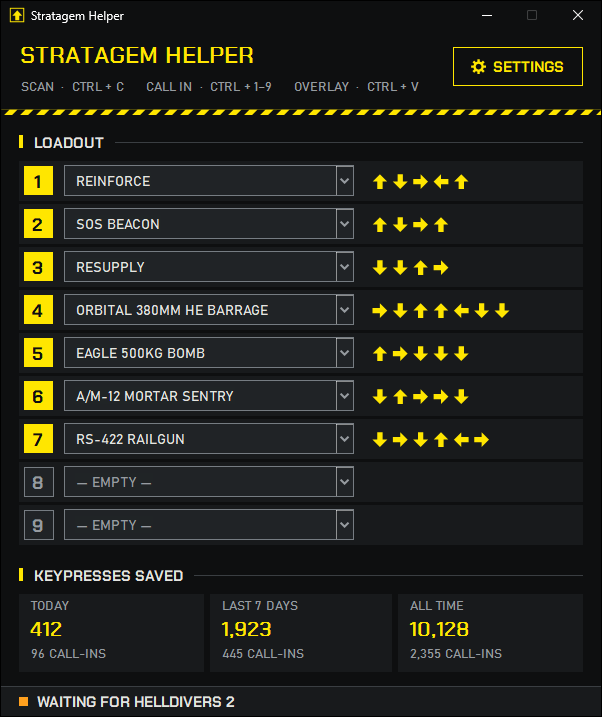
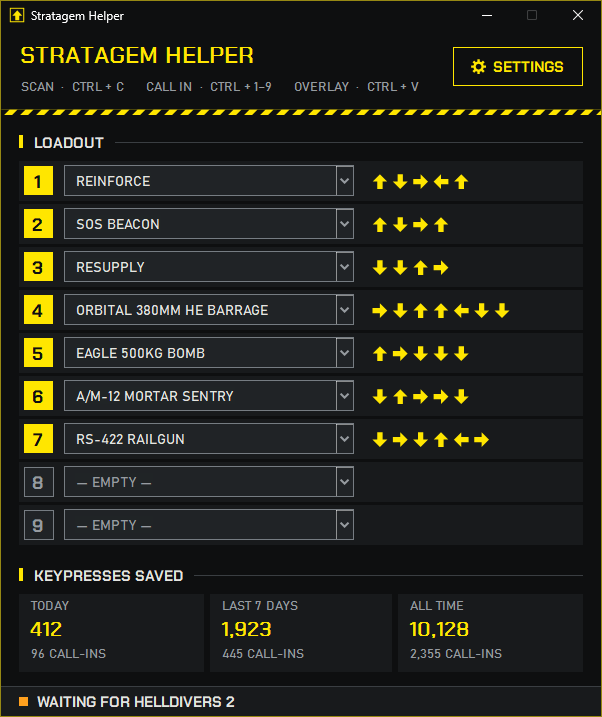
Restore the window border in screenshots
Windows 11 draws the 1 px window border itself, so window captures left it black and the images looked cropped. The tool now paints it in the colour the app sets.

Changed region(s): [[0.9867, 0.0, 1.0, 1.0], [0.0, 0.9819, 0.0299, 1.0]]

diff --git a/tools/OcrTest/ProgramStub.cs b/tools/OcrTest/ProgramStub.cs
@@ -36,7 +36,13 @@ internal static class WindowShot
             PrintWindow(window, dc, 2); // PW_RENDERFULLCONTENT
             g.ReleaseHdc(dc);
         }
-        return full.Clone(new System.Drawing.Rectangle(v.Left - w.Left, v.Top - w.Top, v.Right - v.Left, v.Bottom - v.Top), full.PixelFormat);
+        var shot = full.Clone(new System.Drawing.Rectangle(v.Left - w.Left, v.Top - w.Top, v.Right - v.Left, v.Bottom - v.Top), full.PixelFormat);
+        // Windows 11 draws the 1 px window border itself, so PrintWindow leaves it black. Paint the colour the app
+        // asks for (Theme.ApplyDarkTitleBar); in High Contrast, the system's own frame colour.
+        using (var g = System.Drawing.Graphics.FromImage(shot))
+        using (var pen = new System.Drawing.Pen(StratagemHelper.Theme.HighContrast ? System.Drawing.SystemColors.WindowFrame : StratagemHelper.Theme.YellowDim))
+            g.DrawRectangle(pen, 0, 0, shot.Width - 1, shot.Height - 1);
+        return shot;
     }
 }
 
